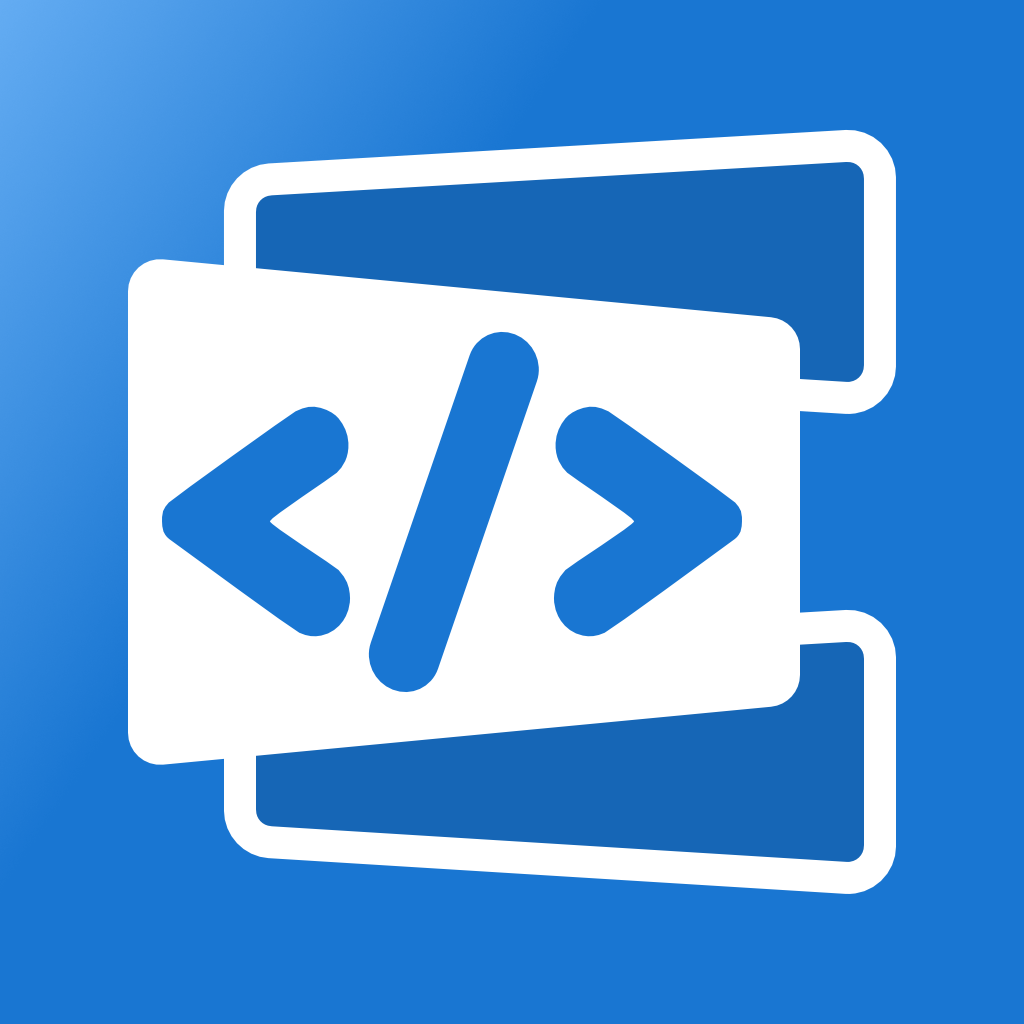
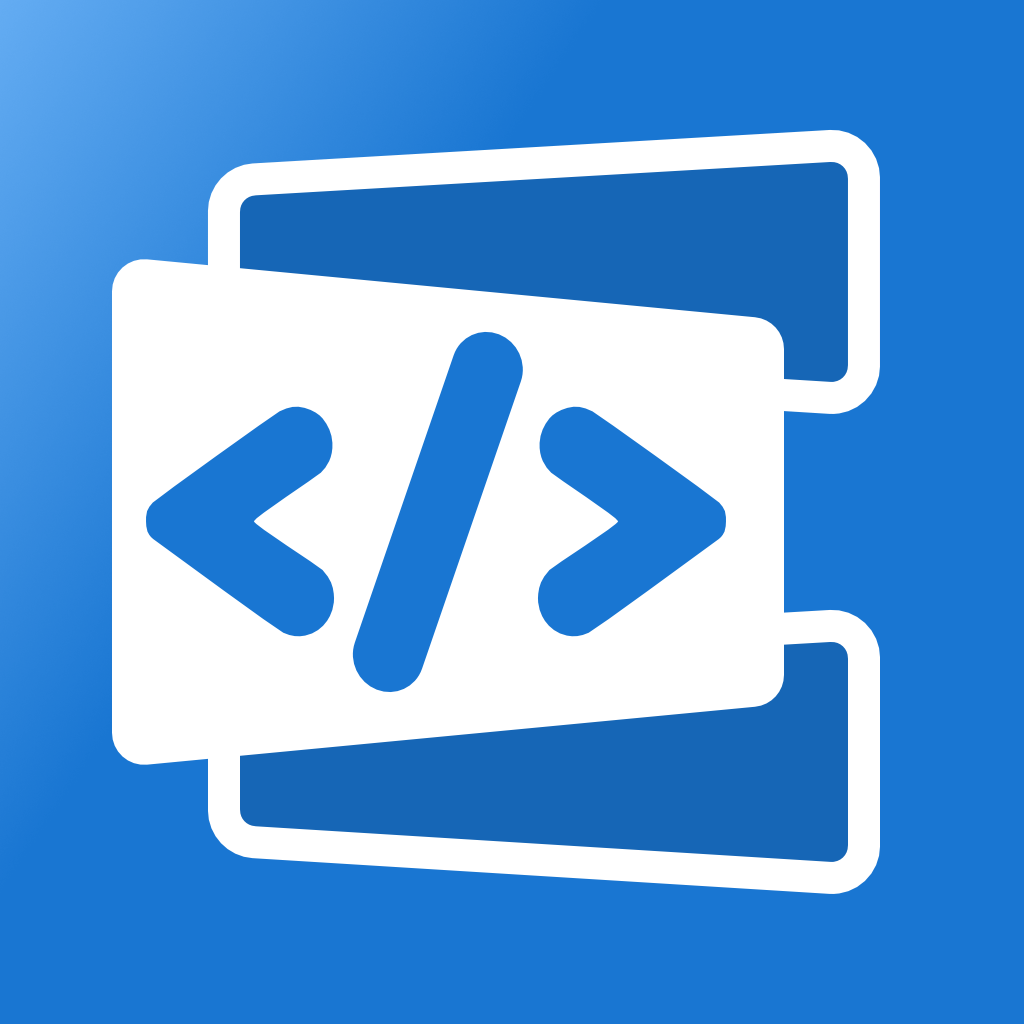
修正：「新規」フィルターを未学習カード（レビュー履歴なし）に変更・i18nキー整理・アイコン更新
- 「新規」フィルターの定義を「今日作成」から「reviewsテーブル未登録」に変更（getUnlearned*系関数追加）
- i18nキーを card.* → editor.* に移動（deleteBlock/emptyTextBlock/emptyCodeBlock等）
- stats.unlearned → common.new に統一、filterDescNew文言を「未学習のカード」に更新
- アプリアイコン（assets/images/icon.png）更新

diff --git a/app/deck/[id]/index.tsx b/app/deck/[id]/index.tsx
@@ -26,8 +26,8 @@ import {
   deleteCard,
   duplicateCard,
   getCardsByDeckId,
-  getTodayCreatedCardIdsByDeckId,
-  getTodayCreatedCountByDeck,
+  getUnlearnedCardIdsByDeckId,
+  getUnlearnedCountByDeck,
   moveCardsToDeck,
   updateCardSortOrders,
 } from '@/lib/database/cards';
@@ -64,7 +64,7 @@ export default function DeckDetailScreen() {
   const { initialFilterPreference, lastDeckDetailFilter, setLastDeckDetailFilter, keyboardShortcutsEnabled, cardSortOrder, setCardSortOrder } = useSettingsStore();
   const [todayReviewed, setTodayReviewed] = useState(0);
   const [dueCount, setDueCount] = useState(0);
-  const [todayCreatedCount, setTodayCreatedCount] = useState(0);
+  const [unlearnedCount, setUnlearnedCount] = useState(0);
   const [selectedFilter, setSelectedFilter] = useState<FilterKey>(
     () => preferenceToFilter(initialFilterPreference) ?? lastDeckDetailFilter,
   );
@@ -111,24 +111,24 @@ export default function DeckDetailScreen() {
   const deck = decks.find((d) => d.id === id) ?? null;
 
   const loadCards = useCallback(async () => {
-    const [loaded, reviewed, due, todayCreated, todayIds, dueIds, todayCreatedIds] = await Promise.all([
+    const [loaded, reviewed, due, unlearned, todayIds, dueIds, unlearnedIds] = await Promise.all([
       getCardsByDeckId(db, id),
       getTodayReviewedCountByDeck(db, id),
       getDueCountByDeck(db, id),
-      getTodayCreatedCountByDeck(db, id),
+      getUnlearnedCountByDeck(db, id),
       getTodayReviewedCardIdsByDeckId(db, id),
       getDueCardIdsByDeckId(db, id),
-      getTodayCreatedCardIdsByDeckId(db, id),
+      getUnlearnedCardIdsByDeckId(db, id),
     ]);
     setCards(loaded);
     setTodayReviewed(reviewed);
     setDueCount(due);
-    setTodayCreatedCount(todayCreated);
+    setUnlearnedCount(unlearned);
     setFilterCardIds({
       all: new Set(loaded.map((c) => c.id)),
       learned: new Set(todayIds),
       review: new Set(dueIds),
-      new: new Set(todayCreatedIds),
+      new: new Set(unlearnedIds),
     });
   }, [db, id, setCards]);
 
@@ -326,7 +326,7 @@ export default function DeckDetailScreen() {
     { key: 'all', count: deck.cardCount, color: theme.colors.primary, label: t('common.all') },
     { key: 'learned', count: todayReviewed, color: FILTER_COLORS.learned, label: t('common.learned') },
     { key: 'review', count: dueCount, color: FILTER_COLORS.due, label: t('common.due') },
-    { key: 'new', count: todayCreatedCount, color: theme.colors.textSecondary, label: t('common.new') },
+    { key: 'new', count: unlearnedCount, color: theme.colors.textSecondary, label: t('common.new') },
   ];
 
   const filterItemMaxDigits = Math.max(...filterItems.map(f => String(f.count).length));

diff --git a/app/(tabs)/stats.tsx b/app/(tabs)/stats.tsx
@@ -129,7 +129,7 @@ function GradeDistPieChart({ dist, theme }: { dist: GradeDistribution; theme: Ap
 
   // 凡例用（新規未習→再度→難しい→普通→簡単 の順）
   const slices: PieSlice[] = [
-    ...(dist.unlearned > 0 ? [{ value: dist.unlearned, color: '#9E9E9E', label: t('stats.unlearned') }] : []),
+    ...(dist.unlearned > 0 ? [{ value: dist.unlearned, color: '#9E9E9E', label: t('common.new') }] : []),
     { value: dist.again,     color: GRADE_COLORS.again, label: t('grade.again') },
     { value: dist.hard,      color: GRADE_COLORS.hard,  label: t('grade.hard') },
     { value: dist.normal,    color: GRADE_COLORS.good,  label: t('grade.good') },
@@ -141,7 +141,7 @@ function GradeDistPieChart({ dist, theme }: { dist: GradeDistribution; theme: Ap
     { value: dist.normal,    color: GRADE_COLORS.good,  label: t('grade.good') },
     { value: dist.hard,      color: GRADE_COLORS.hard,  label: t('grade.hard') },
     { value: dist.again,     color: GRADE_COLORS.again, label: t('grade.again') },
-    { value: dist.unlearned, color: '#9E9E9E',           label: t('stats.unlearned') },
+    { value: dist.unlearned, color: '#9E9E9E',           label: t('common.new') },
   ];
 
   const maxCountDigits = Math.max(...slices.map(s => String(s.value).length));
@@ -268,7 +268,7 @@ function DeckMasteryRow({ deck, mastery, theme, onPress }: { deck: Deck; mastery
         <View style={[styles.masteryBarFill, { width: `${pct}%`, backgroundColor: color }]} />
       </View>
       <Text style={[styles.masterySubLabel, { color: theme.colors.textTertiary, fontSize: theme.fontSize.xs }]} maxFontSizeMultiplier={MAX_FONT_MULTIPLIER.label}>
-        {t('common.learned')}: {mastery.learnedCount}{'        '}{t('stats.unlearned')}: {mastery.newCount}
+        {t('common.learned')}: {mastery.learnedCount}{'        '}{t('common.new')}: {mastery.newCount}
       </Text>
     </Pressable>
   );
@@ -665,7 +665,7 @@ export default function StatsScreen() {
             <View style={[styles.progressBarFill, { width: `${learnedPct}%` }]} />
           </View>
           <Text style={[styles.progressSubLabel, { color: theme.colors.textTertiary, fontSize: theme.fontSize.sm }]} maxFontSizeMultiplier={MAX_FONT_MULTIPLIER.label}>
-            {t('common.learned')}: {learned}{'        '}{t('stats.unlearned')}: {unlearned}
+            {t('common.learned')}: {learned}{'        '}{t('common.new')}: {unlearned}
           </Text>
         </Pressable>
       </View>

diff --git a/lib/database/cards.ts b/lib/database/cards.ts
@@ -242,6 +242,58 @@ export async function getTodayCreatedCardIdsByTagId(db: SQLiteDatabase, tagId: s
   return rows.map(r => r.id);
 }
 
+/** 未学習カード数（デッキ別マップ） */
+export async function getUnlearnedCountPerDeck(db: SQLiteDatabase): Promise<Record<string, number>> {
+  const rows = await db.getAllAsync<{ deckId: string; count: number }>(
+    `SELECT c.deckId, COUNT(*) as count FROM cards c
+     WHERE c.id NOT IN (SELECT cardId FROM reviews)
+     GROUP BY c.deckId`
+  );
+  return Object.fromEntries(rows.map(r => [r.deckId, r.count]));
+}
+
+/** 未学習カード数（タグ別マップ） */
+export async function getUnlearnedCountPerTag(db: SQLiteDatabase): Promise<Record<string, number>> {
+  const rows = await db.getAllAsync<{ tagId: string; count: number }>(
+    `SELECT ct.tagId, COUNT(*) as count
+     FROM cards c
+     JOIN card_tags ct ON c.id = ct.cardId
+     WHERE c.id NOT IN (SELECT cardId FROM reviews)
+     GROUP BY ct.tagId`
+  );
+  return Object.fromEntries(rows.map(r => [r.tagId, r.count]));
+}
+
+/** 未学習カード数（デッキ単体） */
+export async function getUnlearnedCountByDeck(db: SQLiteDatabase, deckId: string): Promise<number> {
+  const row = await db.getFirstAsync<{ count: number }>(
+    `SELECT COUNT(*) as count FROM cards WHERE deckId = ? AND id NOT IN (SELECT cardId FROM reviews)`,
+    [deckId]
+  );
+  return row?.count ?? 0;
+}
+
+/** 未学習カードID一覧（デッキ単体） */
+export async function getUnlearnedCardIdsByDeckId(db: SQLiteDatabase, deckId: string): Promise<string[]> {
+  const rows = await db.getAllAsync<{ id: string }>(
+    `SELECT id FROM cards WHERE deckId = ? AND id NOT IN (SELECT cardId FROM reviews) ORDER BY sortOrder ASC`,
+    [deckId]
+  );
+  return rows.map(r => r.id);
+}
+
+/** 未学習カードID一覧（タグ横断） */
+export async function getUnlearnedCardIdsByTagId(db: SQLiteDatabase, tagId: string): Promise<string[]> {
+  const rows = await db.getAllAsync<{ id: string }>(
+    `SELECT c.id FROM cards c
+     JOIN card_tags ct ON c.id = ct.cardId
+     WHERE ct.tagId = ? AND c.id NOT IN (SELECT cardId FROM reviews)
+     ORDER BY c.sortOrder ASC`,
+    [tagId]
+  );
+  return rows.map(r => r.id);
+}
+
 /** 過去7日間の日別新規カード作成数（ローカル日付ベース） */
 export async function getPast7DaysCreatedCount(
   db: SQLiteDatabase

diff --git a/hooks/useStudySession.ts b/hooks/useStudySession.ts
@@ -2,7 +2,7 @@ import { useCallback, useRef, useState } from 'react';
 import { useSQLiteContext } from 'expo-sqlite';
 import { useSettingsStore } from '@/store/settings';
 
-import { getCardById, getTodayCreatedCardIdsByDeckId, getTodayCreatedCardIdsByTagId } from '@/lib/database/cards';
+import { getCardById, getUnlearnedCardIdsByDeckId, getUnlearnedCardIdsByTagId } from '@/lib/database/cards';
 import { todayISO } from '@/lib/database/utils';
 import {
   getAllCardIdsByDeckId,
@@ -58,12 +58,12 @@ export function useStudySession() {
         if (params.deckId) {
           if (filter === 'all')            cardIds = await getAllCardIdsByDeckId(db, params.deckId);
           else if (filter === 'today')     cardIds = await getTodayReviewedCardIdsByDeckId(db, params.deckId);
-          else if (filter === 'unlearned') cardIds = await getTodayCreatedCardIdsByDeckId(db, params.deckId);
+          else if (filter === 'unlearned') cardIds = await getUnlearnedCardIdsByDeckId(db, params.deckId);
           else                             cardIds = await getDueCardIdsByDeckId(db, params.deckId);
         } else if (params.tagId) {
           if (filter === 'all')            cardIds = await getAllCardIdsByTagId(db, params.tagId);
           else if (filter === 'today')     cardIds = await getTodayReviewedCardIdsByTagId(db, params.tagId);
-          else if (filter === 'unlearned') cardIds = await getTodayCreatedCardIdsByTagId(db, params.tagId);
+          else if (filter === 'unlearned') cardIds = await getUnlearnedCardIdsByTagId(db, params.tagId);
           else                             cardIds = await getDueCardIdsByTagId(db, params.tagId);
         }
 

diff --git a/components/editor/TextBlockItem.tsx b/components/editor/TextBlockItem.tsx
@@ -181,7 +181,7 @@ export function TextBlockItem({ block, isPreview, onChange, onDelete, autoFocus,
             numberOfLines={2}
             maxFontSizeMultiplier={MAX_FONT_MULTIPLIER.content}
           >
-            {block.content || t('card.emptyTextBlock')}
+            {block.content || t('editor.emptyTextBlock')}
           </Text>
         </Pressable>
       ) : isPreview ? (
@@ -208,7 +208,7 @@ export function TextBlockItem({ block, isPreview, onChange, onDelete, autoFocus,
                 onChangeText={onChange}
                 multiline
                 scrollEnabled={false}
-                placeholder={t('card.textBlockPlaceholder')}
+                placeholder={t('editor.textBlockPlaceholder')}
                 placeholderTextColor={theme.colors.textTertiary}
                 onFocus={() => { setFocused(true); onFocusInput?.(); }}
                 onBlur={() => { setFocused(false); onEditBlur?.(); }}
@@ -224,7 +224,7 @@ export function TextBlockItem({ block, isPreview, onChange, onDelete, autoFocus,
                 style={[styles.input, { color: block.content ? theme.colors.text : theme.colors.textTertiary, fontSize: theme.fontSize.md, fontStyle: block.content ? 'normal' : 'italic' }]}
                 maxFontSizeMultiplier={MAX_FONT_MULTIPLIER.content}
               >
-                {block.content || t('card.textBlockPlaceholder')}
+                {block.content || t('editor.textBlockPlaceholder')}
               </Text>
             </GestureDetector>
           )}

diff --git a/components/editor/CodeBlockItem.tsx b/components/editor/CodeBlockItem.tsx
@@ -187,7 +187,7 @@ export function CodeBlockItem({ block, isPreview, onChange, onDelete, onRunStart
       {/* コード入力エリア */}
       {collapsed ? (
         <Text style={[styles.collapsedPreview, { fontSize: theme.fontSize.sm }]} numberOfLines={2} maxFontSizeMultiplier={MAX_FONT_MULTIPLIER.content}>
-          {block.content || t('card.emptyCodeBlock')}
+          {block.content || t('editor.emptyCodeBlock')}
         </Text>
       ) : (
         <>
@@ -213,7 +213,7 @@ export function CodeBlockItem({ block, isPreview, onChange, onDelete, onRunStart
                   onSelectionChange={handleSelectionChange}
                   multiline
                   scrollEnabled={false}
-                  placeholder={t('card.codePlaceholder')}
+                  placeholder={t('editor.codePlaceholder')}
                   placeholderTextColor="#6B7280"
                   onFocus={() => { setFocused(true); onFocusInput?.(); }}
                   onBlur={() => { setFocused(false); if (!skipEditBlurRef.current) { onEditBlur?.(); } skipEditBlurRef.current = false; }}

diff --git a/app/(tabs)/study.tsx b/app/(tabs)/study.tsx
@@ -28,8 +28,8 @@ import {
   getTotalCardCountPerTag,
 } from '@/lib/database/reviews';
 import {
-  getTodayCreatedCountPerDeck,
-  getTodayCreatedCountPerTag,
+  getUnlearnedCountPerDeck,
+  getUnlearnedCountPerTag,
 } from '@/lib/database/cards';
 import { useDeckStore } from '@/store/decks';
 import { useTagStore } from '@/store/tags';
@@ -126,8 +126,8 @@ export default function StudyScreen() {
           getDueCountPerTag(db),
           getTodayReviewedCountPerDeck(db),
           getTodayReviewedCountPerTag(db),
-          getTodayCreatedCountPerDeck(db),
-          getTodayCreatedCountPerTag(db),
+          getUnlearnedCountPerDeck(db),
+          getUnlearnedCountPerTag(db),
           getTotalCardCountPerTag(db),
         ]);
         setDecks(loadedDecks);

diff --git a/components/editor/ImageBlockItem.tsx b/components/editor/ImageBlockItem.tsx
@@ -100,7 +100,7 @@ export function ImageBlockItem({ block, onChange, onDelete, onMoveUp, onMoveDown
 
       {collapsed ? (
         <Text style={[styles.collapsedPreview, { color: theme.colors.textTertiary }]} maxFontSizeMultiplier={MAX_FONT_MULTIPLIER.content}>
-          {hasImage ? `📷 ${t('card.imageBlock')}` : t('card.imageNoSelection')}
+          {hasImage ? `📷 ${t('card.imageBlock')}` : t('editor.imageNoSelection')}
         </Text>
       ) : (
         <>

diff --git a/components/editor/BlockItemHeader.tsx b/components/editor/BlockItemHeader.tsx
@@ -25,7 +25,7 @@ export function BlockItemHeader({ children, onMoveUp, onMoveDown, onDelete, coll
       onDelete();
       return;
     }
-    Alert.alert(t('card.deleteBlock'), t('card.deleteBlockConfirm'), [
+    Alert.alert(t('editor.deleteBlock'), t('editor.deleteBlockConfirm'), [
       { text: t('common.cancel'), style: 'cancel' },
       { text: t('common.delete'), style: 'destructive', onPress: onDelete },
     ]);

diff --git a/components/editor/BlockEditor.tsx b/components/editor/BlockEditor.tsx
@@ -468,7 +468,7 @@ export function BlockEditor({
           deleteBlock(tab, block._key);
           setFocusedBlockIndex(null);
         } else {
-          Alert.alert(t('card.deleteBlock'), t('card.deleteBlockConfirm'), [
+          Alert.alert(t('editor.deleteBlock'), t('editor.deleteBlockConfirm'), [
             { text: t('common.cancel'), style: 'cancel' },
             {
               text: t('common.delete'),
